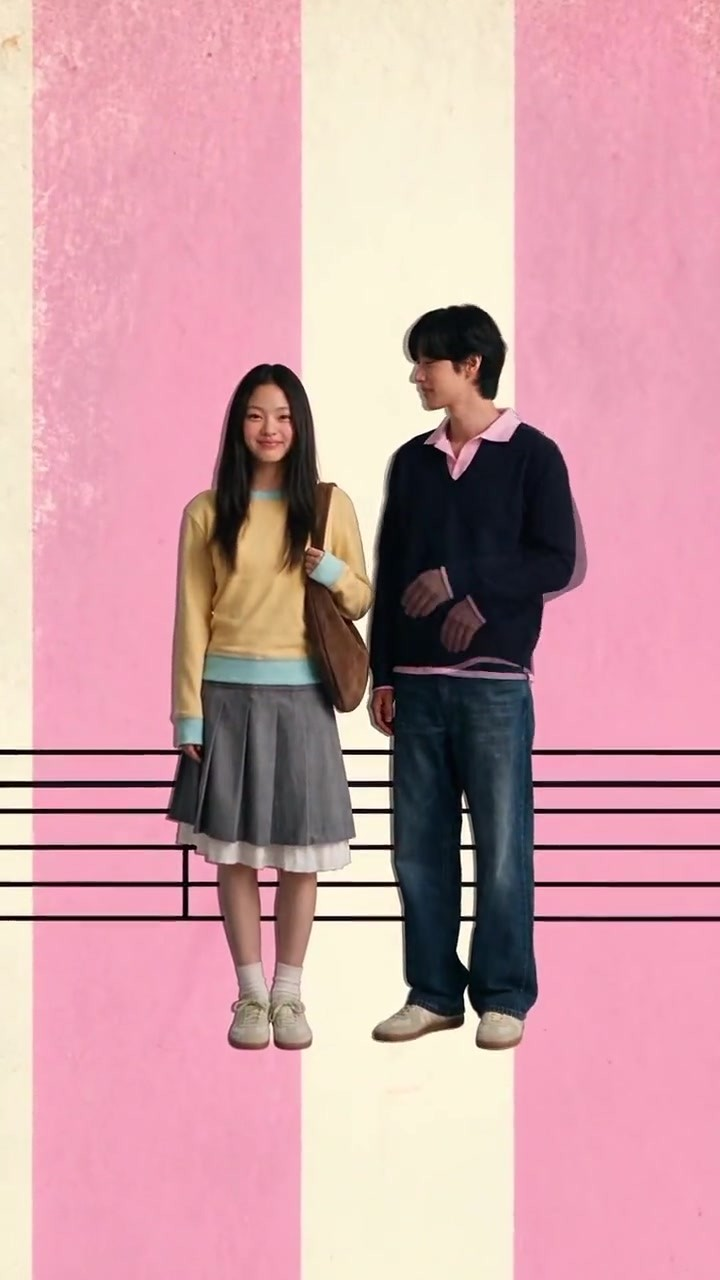
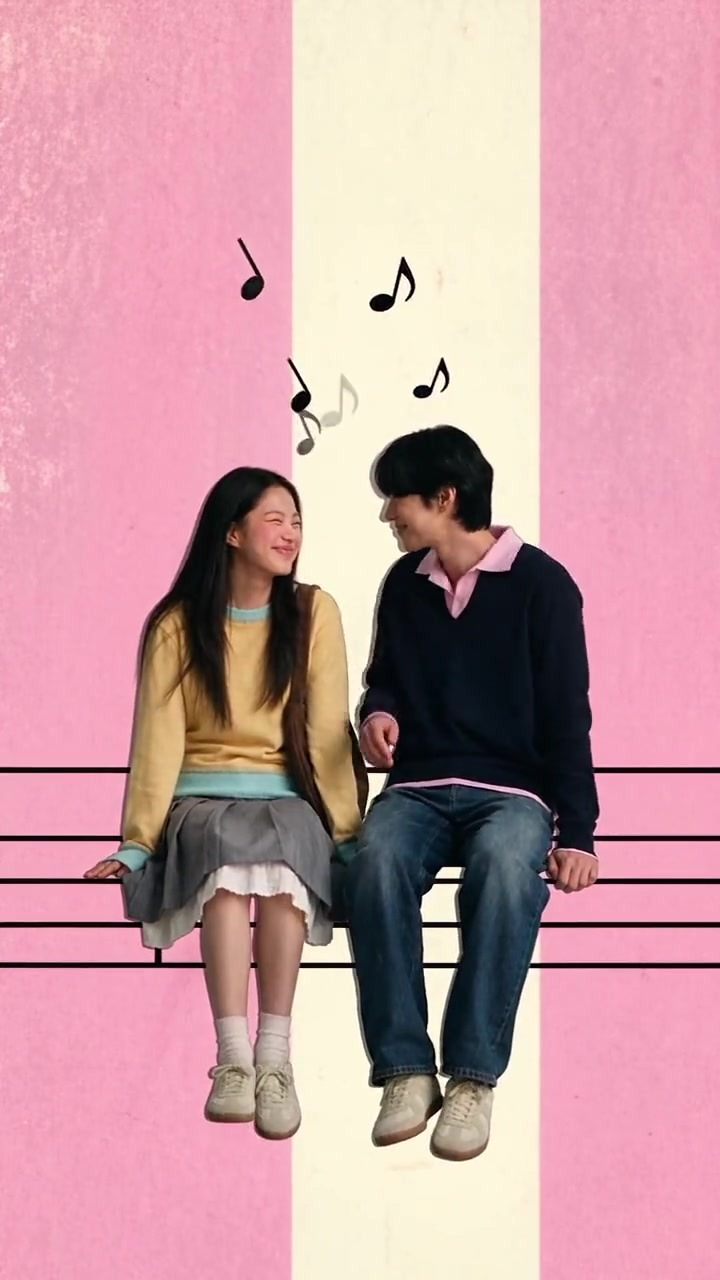
content: AI 드라마 — Learnings 보강(미디어엔터테인먼트→아트&테크놀로지), 음표에 앉은 장면, 세로 영상 크기 줄임(side tiny)
Claude-Session: https://claude.ai/code/session_01Gce1j5wTpgR1L5r5cC4JBm

diff --git a/src/assets/css/style.css b/src/assets/css/style.css
@@ -394,6 +394,11 @@ main { display: block; min-height: 70vh; }
 .duo--right.duo--small > .m { grid-column: 8 / span 5; }
 .duo--right.duo--small > .duo-text { grid-column: 1 / span 6; }
 .duo-text h3:first-child { margin-top: 0; }
+/* "side tiny": 세로 영상을 좁게 (화면 높이를 넘지 않게) */
+.duo--tiny > .m { grid-column: 1 / span 3; }
+.duo--tiny > .duo-text { grid-column: 5 / span 7; }
+.duo--right.duo--tiny > .m { grid-column: 10 / span 3; }
+.duo--right.duo--tiny > .duo-text { grid-column: 1 / span 7; }
 
 /* 여러 장을 한 줄로: 비율이 달라도 높이를 맞춰 나란히 */
 .m-row { display: flex; gap: var(--col-gap); align-items: flex-start; }

diff --git a/works/02_MEDIA/AI영상/index.md b/works/02_MEDIA/AI영상/index.md
@@ -25,7 +25,7 @@ links:
 
 ## 응답하라 2002
 
-![응답하라 2002 — 20초 드라마 티저](응답하라 2002.mp4 "side small")
+![응답하라 2002 — 20초 드라마 티저](응답하라 2002.mp4 "side tiny")
 
 **콘셉트** — 2002년 월드컵의 여름, 동아리방에서 시작되는 청춘 로맨스. 20초 티저를 네 컷으로 나눠 만들었습니다.
 
@@ -43,7 +43,7 @@ links:
 
 ## 난춘
 
-![새소년 — 난춘](난춘.mp4 "side small")
+![새소년 — 난춘](난춘.mp4 "side tiny")
 
 **콘셉트** — 바람에 휘날리는 커튼이 사람을 따라가며 안아 줍니다.
 
@@ -56,7 +56,7 @@ links:
 
 ## 미친건가
 
-![주혜린 — 미친건가](미친건가.mp4 "side small")
+![주혜린 — 미친건가](미친건가.mp4 "side tiny")
 
 **콘셉트** — 분위기 좋은 커플이 음표 위에서 손잡거나 기대고 있는 장면.
 
@@ -69,7 +69,7 @@ links:
 
 ## 사랑이 잘
 
-![아이유, 오혁 — 사랑이 잘](사랑이 잘.mp4 "side small")
+![아이유, 오혁 — 사랑이 잘](사랑이 잘.mp4 "side tiny")
 
 **콘셉트** — 권태기가 온 남자의 시선으로 보내는 '눅눅한 마지막 저녁'.
 
@@ -82,7 +82,7 @@ links:
 
 ## Antifreeze
 
-![백예린 — Antifreeze](Antifreeze.mp4 "side small")
+![백예린 — Antifreeze](Antifreeze.mp4 "side tiny")
 
 **콘셉트** — 죽기 전 강아지가 주인에게 하는 말. 강아지의 눈동자에 함께 지낸 모든 시간이 보입니다.
 
@@ -110,6 +110,7 @@ links:
 
 ## Learnings
 
-- AI가 표현해야 하는 것은 결국 사람의 감정이라, 마지막에는 사람이 직접 만져야 한다는 것을 깨달았습니다.
-- 기획한 대로 제가 좋아하는 노래의 가사를 장면으로 술술 풀어낼 수 있어서 즐거웠습니다.
-- 미디어&엔터테인먼트 전공 친구와 함께 기획하고 만들었습니다.
+- **감정은 결국 사람이 만집니다.** AI는 장면을 빠르게 만들어 주지만, 화면이 전해야 하는 것은 결국 사람의 감정입니다. 시선이 어디를 향하는지, 손끝이 닿기 직전 어디서 멈추는지처럼 감정이 실리는 순간은 사람이 직접 정하고 다듬어야 한다는 것을 깨달았습니다.
+- **기획이 먼저입니다.** 콘셉트 한 줄과 시나리오, 컷 구성을 먼저 세워 두니 제가 좋아하는 노래의 가사를 기획한 대로 장면으로 술술 풀어낼 수 있었습니다. 도구가 바뀌어도 결과를 좌우하는 것은 이야기를 설계하는 힘이었습니다.
+- **미디어엔터테인먼트에서 아트&테크놀로지로.** 미디어엔터테인먼트를 공부하며 콘텐츠가 사람에게 어떻게 닿는지를 배워 왔다면, 이번 작업에서는 기술이 그 표현의 폭을 얼마나 넓힐 수 있는지를 직접 경험했습니다. 기술과 예술이 만나는 지점에서 사람의 감정을 설계하는 일을 아트&테크놀로지에서 더 깊이 공부하려 합니다.
+- 같은 미디어&엔터테인먼트 전공 친구와 기획부터 편집까지 함께 만들었습니다.
